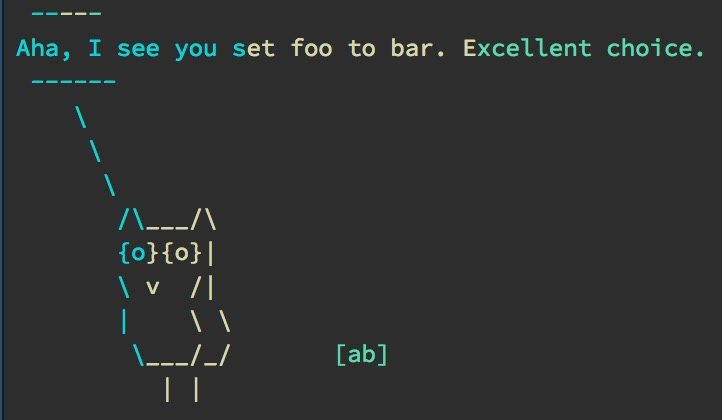
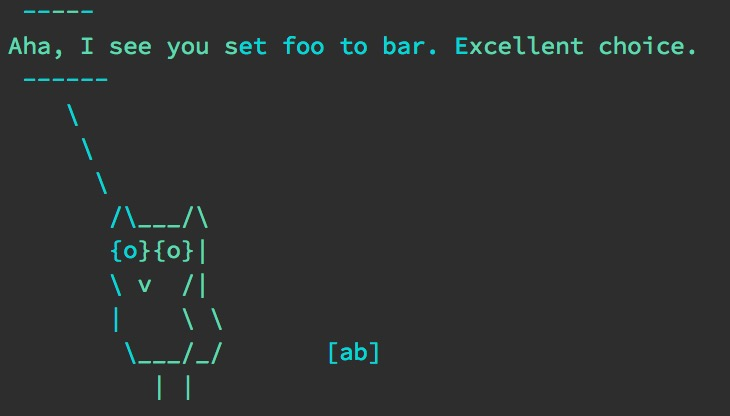
clarify when colors cannot be applied in readme

diff --git a/README.md b/README.md
@@ -22,7 +22,8 @@ devtools::install_github("aedobbyn/multicolor")
 ```
 
 Note: this package cannot be run from the R GUI. RStudio or any terminal
-work fine.
+should work fine. If coloring isn’t possible, you’ll get a warning on
+load.
 
 ## Usage
 
@@ -86,6 +87,9 @@ multi_color("The wild avocado grows in subtropical jungles, so the new sprout ha
 
 </p>
 
+The default is to color vertically, but horizontal is also an option by
+setting the `direction` param to “horizontal”.
+
 ### ASCII art with [`cowsay`](https://github.com/sckott/cowsay)
 
 All `cowsay` animals are exported in `multicolor::things`, but to get
@@ -141,23 +145,7 @@ tryCatch(log("foo"), error = function(e) message(my_msg))
 
 </p>
 
-The default is to color vertically, but horizontal is also an option. If
-you want to make a Dutch shark, you can set the `direction` param to
-“horizontal”.
-
-``` r
-multi_color(things[["shark"]], 
-            colors = c("darkred", "white", "blue"),
-            direction = "horizontal")
-```
-
-<p align="left">
-
-<img src="./man/img/dutch_shark_old.jpg" alt="dutch_shark_old" height="300px">
-
-</p>
-
-Or just use for things you want to message your user.
+Or just send messages to your users that they’ll want to read.
 
 ``` r
 this_variable <- "foo"
@@ -166,8 +154,8 @@ this_option <- "bar"
 say(what = 
       glue::glue("Aha, I see you set {this_variable} to {this_option}. Excellent choice."),
     by = "owl",
-    what_color = c("turquoise3", "peachpuff3", "seagreen3"),
-    by_color = c("turquoise3", "peachpuff3", "seagreen3"))
+    what_color = c("seagreen3", "turquoise3", "seagreen3"),
+    by_color = c("turquoise3", "seagreen3", "turquoise3"))
 ```
 
 <p align="left">
